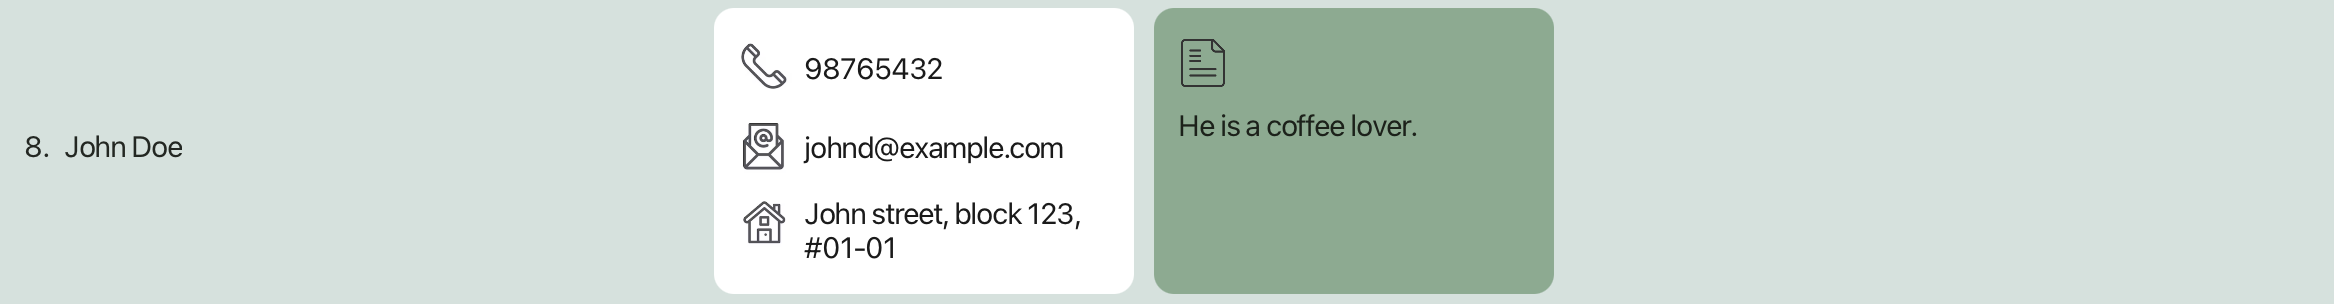
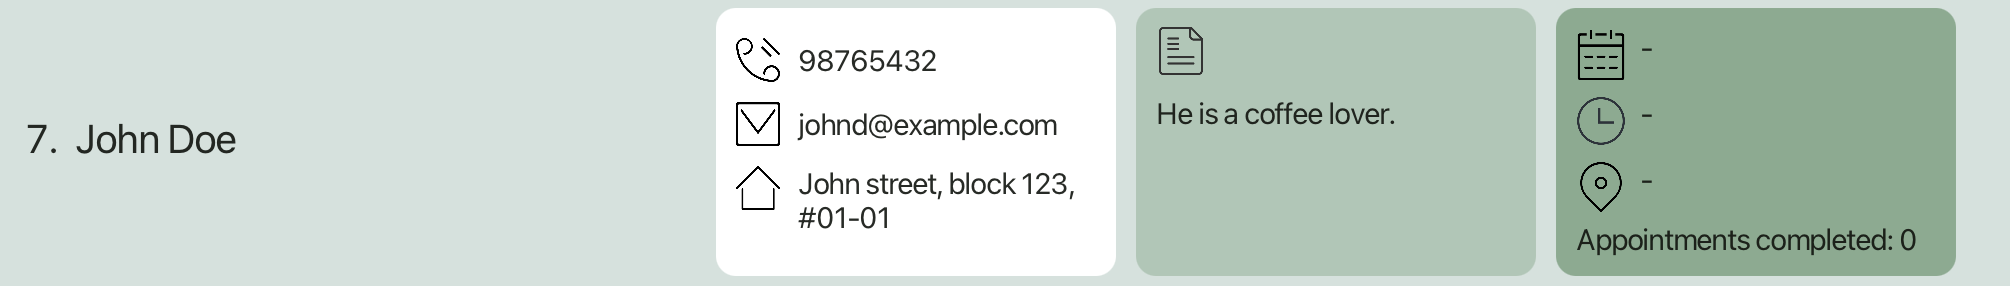
Update UI for user guide
Updaetd UI for user guide

diff --git a/src/main/java/seedu/address/model/util/SampleDataUtil.java b/src/main/java/seedu/address/model/util/SampleDataUtil.java
@@ -31,14 +31,14 @@ public class SampleDataUtil {
                 createAddress("Blk 30 Geylang Street 29, #06-40"),
                 new Remark("He is a coffee lover, always choose Starbucks as the location to meetup."),
                 getTagSet("friends", "tall", "wears spectacles"), getInsuranceSet("car insurance"),
-                EMPTY_APPOINTMENT, new AppointmentCount("0"),
+                new Appointment("11 Nov 2023", "1230", "Starbucks@Utwon"), new AppointmentCount("3"),
                 new Priority(Priority.HIGH_PRIORITY_KEYWORD)),
             new Person(new Name("Bernice Yu"), new Phone("99272758"), new Email("berniceyu@example.com"),
                 createAddress("Blk 30 Lorong 3 Serangoon Gardens, #07-18"),
                 new Remark("He does not like to drink coffee, rather he prefers to have discussions in tea houses."),
                 getTagSet("colleagues", "friends"),
                 getInsuranceSet("car insurance", "AIA insurance"),
-                EMPTY_APPOINTMENT, new AppointmentCount("0"),
+                new Appointment("13 Nov 2023", "1000", "Clementi Mall"), new AppointmentCount("0"),
                 new Priority(Priority.MEDIUM_PRIORITY_KEYWORD)),
             new Person(new Name("Charlotte Oliveiro"), new Phone("93210283"), new Email("charlotte@example.com"),
                 createAddress("Blk 11 Ang Mo Kio Street 74, #11-04"), new Remark(""),

diff --git a/docs/UserGuide.md b/docs/UserGuide.md
@@ -62,7 +62,7 @@ will be using these names to refer to the section specified in the following Use
 1. **Command Box:** Box for users to input the command to be executed by EzContact.<br/>
 1. **Result Display Box:** Box that displays the result of executing the entered command.<br/>
 1. **Customer List Panel:** Panel that displays the list of Customer Cards.<br/>
-   - **Customer Card:** Card that displays information about each customer.<br/>
+1. **Customer Card:** Card that displays information about each customer.<br/>
 
 -----------------------------------------------------------------------------------------------------------------------
 
